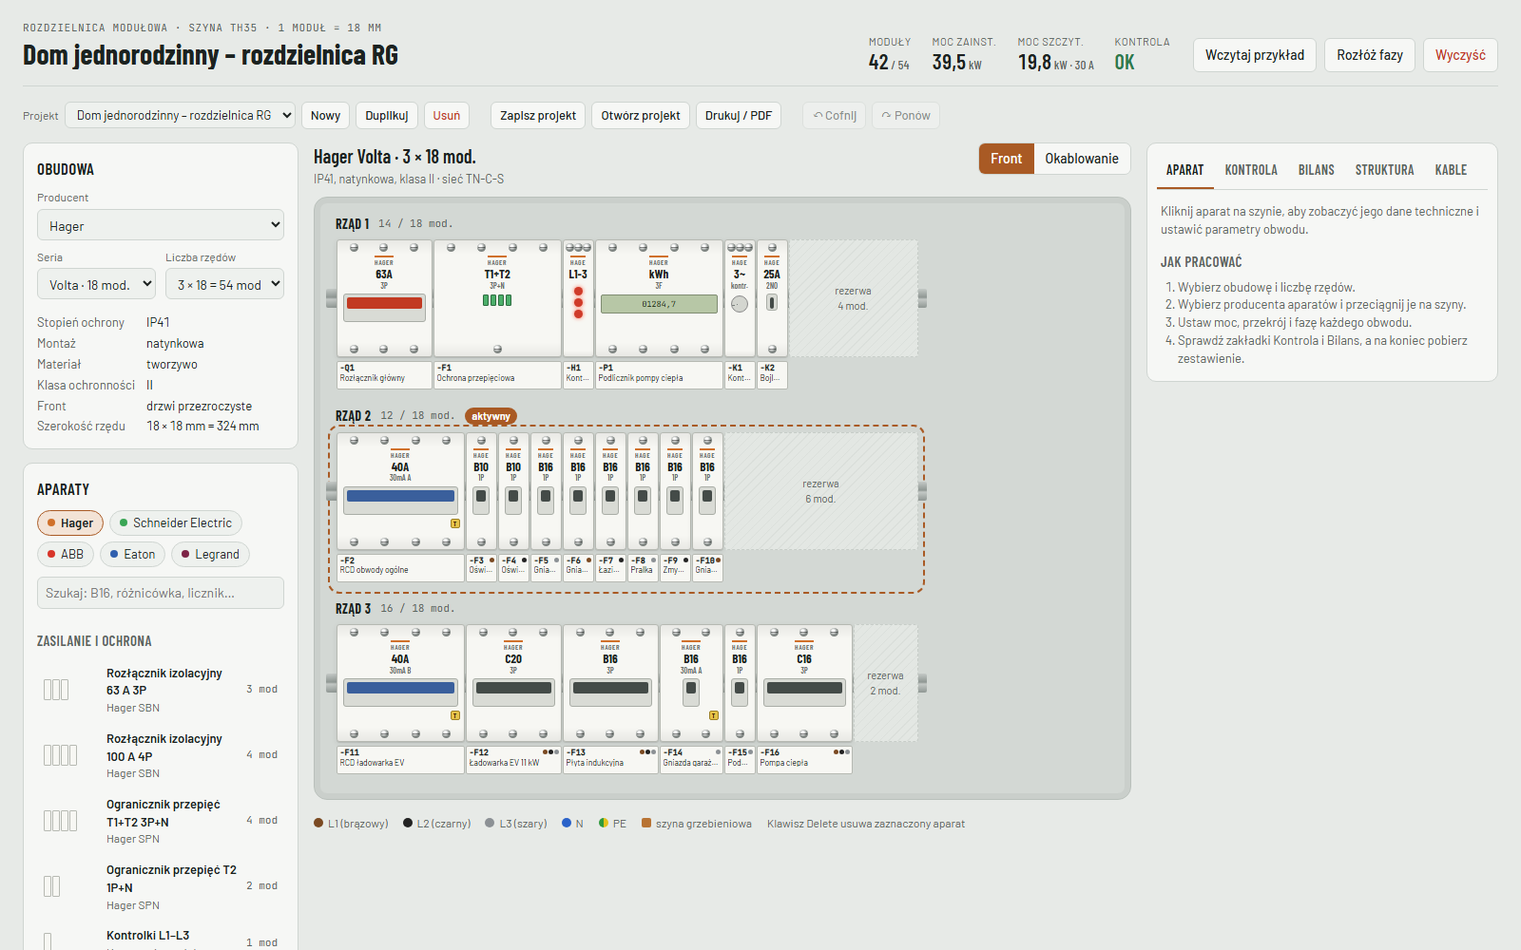
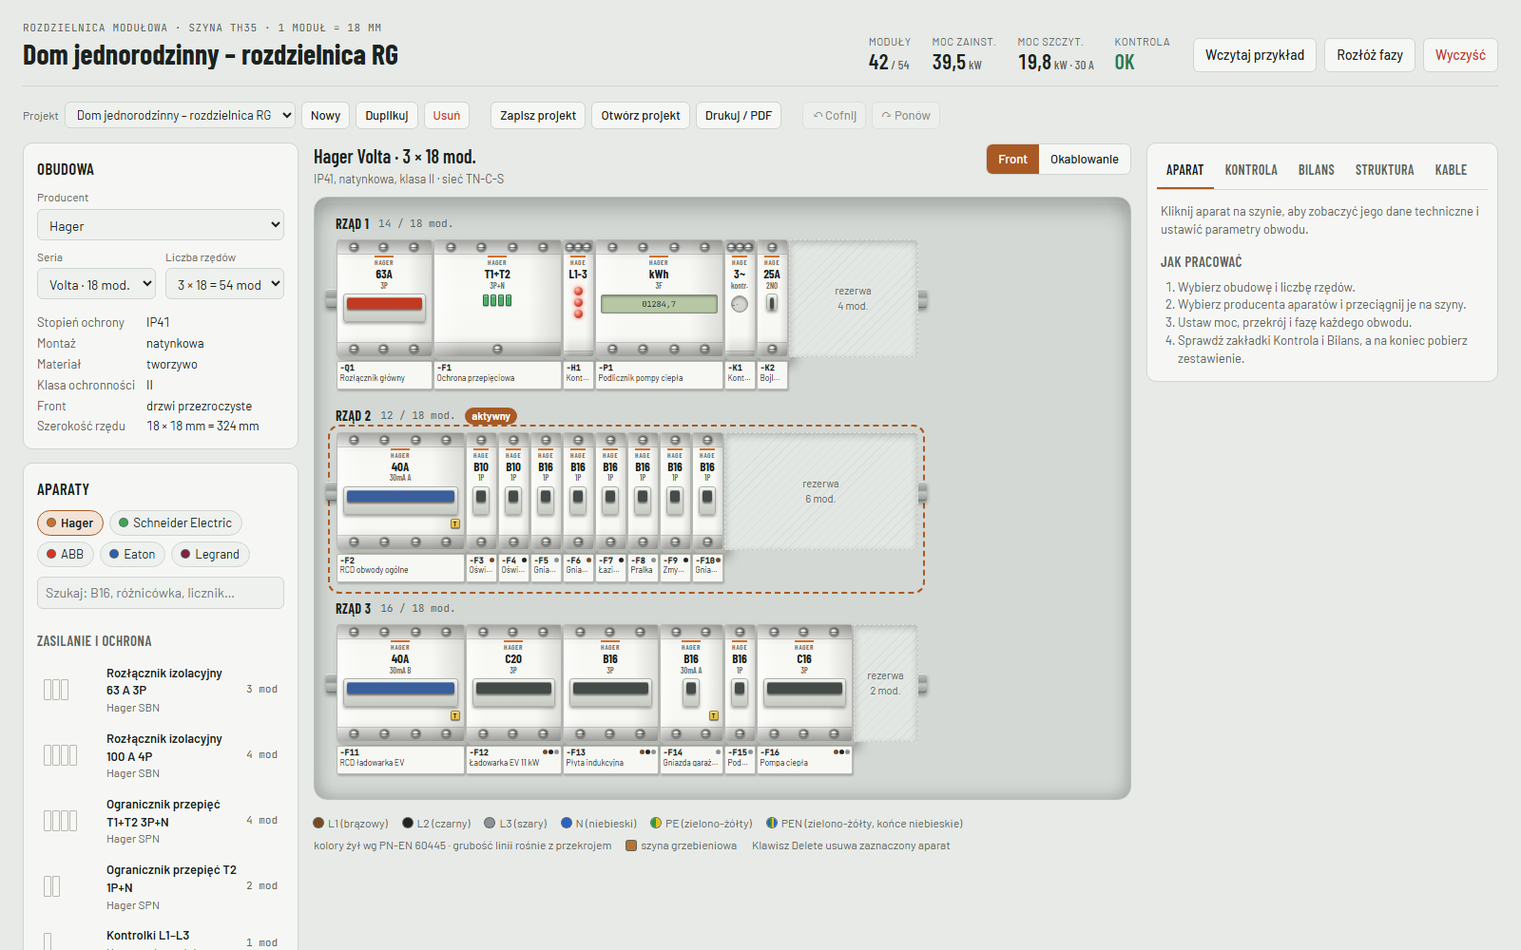
0.8.0: wygląd przestrzenny aparatów i przewodów, grubość linii wg przekroju, kontrola przekroju względem zacisków

diff --git a/js/wiring.js b/js/wiring.js
@@ -23,6 +23,18 @@ function cableType(d){const c=+d.c.cable,cs=fmt(c);return is3(d)?(c<=4?'YDYp 5×
 let wirePick=null,wireSel=null,wireMove=null;
 function wireReset(){wirePick=wireSel=wireMove=null;}
 const WIRE_MM=[1.5,2.5,4,6,10,16,25,35];
+/* Grubość linii na rysunku rośnie z przekrojem przewodu [mm² → px]. */
+const WIRE_W={1.5:1.6,2.5:2,4:2.4,6:2.8,10:3.2,16:3.7,25:4.2,35:4.6};
+const wireW=mm=>WIRE_W[mm]||(mm>35?5:2.2);
+/* Czy przekrój przewodu mieści się w zaciskach aparatów na jego końcach. Zwraca [komunikat, wskazówka, idAparatu] albo null. */
+function termFit(c,D){const E=[c.a,c.b];for(let i=0;i<2;i++){const e=E[i];if(e.k!=='dev')continue;const d=S.dev[e.id],r=termRange(d);
+  if(c.mm>r[1]||c.mm<r[0])return ['Przewód <b>'+esc(epName(c.a,D))+' → '+esc(epName(c.b,D))+'</b> '+fmt(c.mm)+' mm² nie pasuje do zacisku <b>'+D[d.id]+' '+esc(d.name)+'</b> (zakres '+fmt(r[0])+'–'+fmt(r[1])+' mm²).',
+    c.mm>r[1]?'Za gruby przewód nie wejdzie w zacisk. Zastosuj blok rozdzielczy albo aparat o większych zaciskach; nie wolno odcinać drutów żyły.':'Za cienki przewód nie zostanie pewnie dociśnięty. Zwiększ przekrój albo zastosuj tulejkę zgodnie z kartą aparatu.',d.id];}return null;}
+/* Przekroje a zaciski dla połączeń wyliczonych przez program i dla kabli obwodowych (przewody ręczne sprawdza wireCheck). */
+function termIssues(){const out=[],D=designations();
+  buildConns().C.forEach(c=>{if(c.user||c.kind==='jumper')return;const t=termFit(c,D);if(t)out.push({sev:'crit',msg:t[0],ref:t[1],id:t[2]});});
+  S.rows.flat().map(id=>S.dev[id]).filter(isCirc).forEach(d=>{const r=termRange(d),mm=+d.c.cable;if(mm>r[1]||mm<r[0])out.push({sev:'crit',msg:'<b>'+D[d.id]+' '+esc(d.name)+'</b>: kabel obwodowy '+fmt(mm)+' mm² nie pasuje do zacisków aparatu (zakres '+fmt(r[0])+'–'+fmt(r[1])+' mm²).',ref:'Dobierz aparat o odpowiednich zaciskach albo zmień przekrój kabla.',id:d.id});});
+  return out;}
 const epPh=e=>e.k==='bar'?(e.bar==='PE'?'PE':'N'):e.ph;
 const epKey=e=>e.k==='dev'?e.id+'/'+e.side+'/'+e.ph:e.k==='bar'?'bar/'+e.bar:e.k==='comb'?'comb/'+e.rcd+'/'+e.ph:'wlz/'+e.ph;
 /* Zapisany koniec → koniec z nazwą żyły; null, gdy zacisk już nie istnieje (usunięty aparat, mniej biegunów). */
@@ -73,6 +85,7 @@ function wireCheck(){const out=[],bad={},why={};if(S.wmode!=='manual')return {ou
         else if(fn==='N')add('warn',nm+' jest przewodem neutralnym, a ma izolację '+COL[c.col]+'.','Przewód N powinien być niebieski. '+ref,id,c);
         else add('info',nm+' (faza '+fn+') ma izolację '+COL[c.col]+'.','Dopuszczalne, ale zalecana kolejność to L1 brązowy, L2 czarny, L3 szary; oznacz końce przewodu. '+ref,id,c);}}
     if(c.mm<c.mmAuto)add('warn',nm+' ma przekrój '+fmt(c.mm)+' mm², mniejszy niż dobrany '+fmt(c.mmAuto)+' mm².','Przekrój przewodu w rozdzielnicy musi odpowiadać zabezpieczeniu przed nim (In ≤ Iz, PN-HD 60364-4-43).',id,c);
+    const tf=termFit(c,D);if(tf)add('crit',tf[0],tf[1],tf[2],c);
     if(c.kind==='mostek'){
       if(!tncs)add('crit',nm+' łączy N z PE w układzie '+esc(S.set.siec)+'.','W tym układzie przewody N i PE muszą być rozdzielone w całej instalacji (PN-HD 60364-5-54).',id,c);
       else if(!(c.b.k==='bar'&&c.b.bar==='N')&&!(c.b.k==='dev'&&S.dev[c.b.id]===sw&&c.b.side==='top'))add('crit',nm+' łączy N z PE poza punktem podziału PEN.','Za punktem podziału (listwa PE → główna listwa N) przewodów N i PE nie wolno ponownie łączyć (PN-HD 60364-5-54 p. 543.4).',id,c);
@@ -216,19 +229,21 @@ function drawWires(){const cab=$('#board');
   const touches=c=>!S.sel||[c.a,c.b].some(e=>e.id===S.sel||e.rcd===S.sel||e.bar==='N:'+S.sel);
   const shown=c=>wf[(c.kind==='mostek')?'PE':c.ph];
   /* c (opcjonalnie): przewód dodany ręcznie – dostaje data-w do zaznaczania oraz obwódkę błędu / zaznaczenia. */
-  const paint=(d,ph,mm,title,pe,dim,c)=>{const w=mm>=10?3:2.2,u=c&&c.user,bad=u?wc.bad[c.id]:'',sel=u&&wireSel===c.id,at=u?` data-w="${c.id}"`:'';
+  const paint=(d,ph,mm,title,pe,dim,c)=>{const w=wireW(mm),u=c&&c.user,bad=u?wc.bad[c.id]:'',sel=u&&wireSel===c.id,at=u?` data-w="${c.id}"`:'';
     const mark=bad==='crit'||bad==='warn';
     if(bad){const t=document.createElement('div');t.innerHTML=wc.why[c.id];title+=' · '+(bad==='crit'?'ZŁE PODŁĄCZENIE: ':'UWAGA: ')+t.textContent;}
     /* kolor izolacji: ustawiony ręcznie albo wg żyły; PEN (TN-C-S) = zielono-żółty z niebieskimi końcami (PN-EN 60445) */
     const col=c&&c.col?c.col:(pe?'PE':ph),pen=!!c&&!c.col&&S.set.siec==='TN-C-S'&&(c.kind==='mostek'||(c.a.k==='wlz'&&c.a.ph==='PE'));
-    let s=`<g opacity="${dim&&!sel&&!mark?.16:1}">`+(mark||sel?`<path class="halo" d="${d}" fill="none" stroke="var(--${sel?'accent':bad==='crit'?'crit':'warn'})" stroke-width="${w+7}" stroke-linejoin="round" opacity=".6"/>`:'')+`<path d="${d}" fill="none" stroke="var(--wire-edge)" stroke-width="${w+3}" stroke-linejoin="round"/>`;
+    let s=`<g opacity="${dim&&!sel&&!mark?.16:1}">`+(mark||sel?`<path class="halo" d="${d}" fill="none" stroke="var(--${sel?'accent':bad==='crit'?'crit':'warn'})" stroke-width="${w+7}" stroke-linejoin="round" opacity=".6"/>`:'')+`<path class="sh" d="${d}" transform="translate(1.6 2.4)" fill="none" stroke="var(--wire-sh)" stroke-opacity=".24" stroke-width="${w+1.2}" stroke-linejoin="round"/><path d="${d}" fill="none" stroke="var(--wire-edge)" stroke-width="${w+2}" stroke-linejoin="round"/>`;
+    /* połysk: wąska jasna linia przesunięta ku górze-lewej daje wrażenie okrągłego przewodu */
+    const hl=`<path class="hl" d="${d}" transform="translate(${(-w*.2).toFixed(2)} ${(-w*.2).toFixed(2)})" fill="none" stroke="var(--wire-hl)" stroke-opacity=".4" stroke-width="${Math.max(.6,w*.28).toFixed(2)}" stroke-linejoin="round" pointer-events="none"/>`;
     if(col==='PE')s+=`<path d="${d}" fill="none" stroke="var(--pe2)" stroke-width="${w}" stroke-linejoin="round"/><path class="w"${at} d="${d}" fill="none" stroke="var(--pe)" stroke-width="${w}" stroke-dasharray="5 5" stroke-linejoin="round"><title>${esc(title)}</title></path>`
       +(pen?`<path class="pen" d="${d}" pathLength="1000" fill="none" stroke="var(--n)" stroke-width="${w}" stroke-dasharray="90 820 90" pointer-events="none"/>`:'');
-    else s+=`<path class="w"${at} d="${d}" fill="none" stroke="var(--${col.toLowerCase()})" stroke-width="${w}" stroke-linejoin="round"><title>${esc(title)}</title></path>`;return s+'</g>';};
+    else s+=`<path class="w"${at} d="${d}" fill="none" stroke="var(--${col.toLowerCase()})" stroke-width="${w}" stroke-linejoin="round"><title>${esc(title)}</title></path>`;return s+hl+'</g>';};
   let out='';
   // listwy
-  out+=`<rect x="${x0}" y="${peY-4}" width="${x1-x0}" height="8" rx="2" fill="var(--pe)"/><rect x="${x0}" y="${peY-1}" width="${x1-x0}" height="2" fill="var(--pe2)"/><text x="${x0}" y="${peY+20}" font-size="10.5" font-weight="600" fill="var(--ink)">Listwa PE${S.set.siec==='TN-C-S'?' · punkt podziału PEN':''}</text>`;
-  segs.forEach(s=>{out+=`<rect x="${s.x0}" y="${nY-4}" width="${s.x1-s.x0}" height="8" rx="2" fill="var(--n)"/><text x="${s.x1}" y="${nY+18}" text-anchor="end" font-size="10.5" font-weight="600" fill="var(--ink)">Listwa ${esc(s.lab)}</text>`;
+  out+=`<rect x="${x0+2}" y="${peY-1}" width="${x1-x0}" height="8" rx="2" fill="var(--wire-sh)" opacity=".22"/><rect x="${x0}" y="${peY-4}" width="${x1-x0}" height="8" rx="2" fill="var(--pe)"/><rect x="${x0}" y="${peY-1}" width="${x1-x0}" height="2" fill="var(--pe2)"/><text x="${x0}" y="${peY+20}" font-size="10.5" font-weight="600" fill="var(--ink)">Listwa PE${S.set.siec==='TN-C-S'?' · punkt podziału PEN':''}</text>`;
+  segs.forEach(s=>{out+=`<rect x="${s.x0+2}" y="${nY-1}" width="${s.x1-s.x0}" height="8" rx="2" fill="var(--wire-sh)" opacity=".22"/><rect x="${s.x0}" y="${nY-4}" width="${s.x1-s.x0}" height="8" rx="2" fill="var(--n)"/><rect x="${s.x0+1}" y="${nY-3.4}" width="${s.x1-s.x0-2}" height="1.6" rx=".8" fill="var(--wire-hl)" opacity=".4"/><text x="${s.x1}" y="${nY+18}" text-anchor="end" font-size="10.5" font-weight="600" fill="var(--ink)">Listwa ${esc(s.lab)}</text>`;
     for(let x=s.x0+6;x<=s.x1-6;x+=12)out+=`<circle cx="${x}" cy="${nY}" r="1.6" fill="var(--cabinet)"/>`;});
   for(let x=x0+6;x<=x1-6;x+=12)out+=`<circle cx="${x}" cy="${peY}" r="1.6" fill="var(--cabinet)"/>`;
   out+=`<text x="${x0+44}" y="14" font-size="11" font-weight="600" fill="var(--ink)">WLZ: ${esc(wlzType())} · zab. przedlicznikowe ${S.set.przedl} A · ${esc(S.set.siec)}</text>`;

diff --git a/css/styles.css b/css/styles.css
@@ -10,7 +10,7 @@
   --f-display:"Barlow Condensed","Arial Narrow",Arial,sans-serif;
   --f-body:"Barlow","Segoe UI",Roboto,Arial,sans-serif;
   --f-mono:"JetBrains Mono",ui-monospace,Consolas,monospace;
-  --wire-edge:var(--cabinet);
+  --wire-edge:var(--cabinet); --wire-sh:#000000; --wire-hl:#ffffff;
   --M:34px;
 }
 @media (prefers-color-scheme: dark){:root:not([data-theme="light"]){
@@ -247,3 +247,23 @@ footer{margin-top:22px;font-size:12px;color:var(--muted);max-width:90ch}
   body{margin:0;background:none}
   #print{display:block;-webkit-print-color-adjust:exact;print-color-adjust:exact}
 }
+
+/* Wygląd przestrzenny (bez transformacji 3D, żeby pomiar zacisków dla przewodów pozostał dokładny):
+   bryła aparatu z boczną ścianką i cieniem, wypukły front, wgłębione zaciski, głębia obudowy. */
+.cabinet{box-shadow:inset 0 0 0 6px color-mix(in srgb,var(--cabinet-edge) 35%,transparent),inset 0 18px 30px -16px rgba(0,0,0,.4),inset 0 -12px 22px -14px rgba(0,0,0,.22),inset 14px 0 22px -16px rgba(0,0,0,.22),inset -14px 0 22px -16px rgba(0,0,0,.22)}
+.rail::before{box-shadow:0 3px 4px rgba(0,0,0,.35),inset 0 1px 0 rgba(255,255,255,.55),inset 0 -1px 0 rgba(0,0,0,.25)}
+.dev{background:linear-gradient(90deg,rgba(255,255,255,.6),rgba(255,255,255,0) 20%,rgba(0,0,0,0) 74%,rgba(0,0,0,.11)),linear-gradient(180deg,rgba(0,0,0,.12),rgba(0,0,0,0) 18%,rgba(255,255,255,.25) 50%,rgba(0,0,0,0) 82%,rgba(0,0,0,.16)),var(--dev);
+  box-shadow:1px 1px 0 var(--dev-edge),2px 2px 0 var(--dev-edge),3px 3px 0 var(--dev-edge),7px 9px 12px rgba(0,0,0,.3)}
+.slot.sel .dev{box-shadow:0 0 0 2px var(--accent),3px 3px 0 var(--dev-edge),8px 11px 16px rgba(0,0,0,.38)}
+.slot.over .dev{box-shadow:0 0 0 2px var(--crit),3px 3px 0 var(--dev-edge),7px 9px 12px rgba(0,0,0,.3)}
+.trm{background:linear-gradient(180deg,rgba(0,0,0,.24),rgba(0,0,0,.05));box-shadow:inset 0 -1px 0 rgba(0,0,0,.14)}
+.trm.b{background:linear-gradient(0deg,rgba(0,0,0,.24),rgba(0,0,0,.05));box-shadow:inset 0 1px 0 rgba(0,0,0,.14)}
+.scr{box-shadow:inset 0 1px 2px rgba(0,0,0,.65),0 0 0 1.5px rgba(0,0,0,.2)}
+.lever{background:linear-gradient(180deg,#eef0ea,#c6c9c2);box-shadow:inset 0 1px 0 rgba(255,255,255,.8),0 2px 3px rgba(0,0,0,.32)}
+.lever::after{box-shadow:0 2px 2px rgba(0,0,0,.5),inset 0 1px 0 rgba(255,255,255,.28)}
+.lcd,.sock,.dial{box-shadow:inset 0 1px 3px rgba(0,0,0,.4)}
+.tbtn{box-shadow:0 1px 1px rgba(0,0,0,.45),inset 0 1px 0 rgba(255,255,255,.5)}
+.leds i{background:radial-gradient(circle at 35% 30%,#ffc2b6,#cf3b2a 62%)}
+.spdwin i{box-shadow:inset 0 1px 1px rgba(255,255,255,.5),0 1px 1px rgba(0,0,0,.3)}
+.tag{box-shadow:1px 2px 2px rgba(0,0,0,.2)}
+.blank{box-shadow:inset 0 3px 7px rgba(0,0,0,.2)}

diff --git a/tests/okablowanie.spec.js b/tests/okablowanie.spec.js
@@ -283,3 +283,37 @@ test('kolory żył są normatywne także w ciemnym motywie; PEN ma niebieskie ko
   await page.evaluate(() => { S.set.siec = 'TN-S'; render(); });
   await expect(page.locator('svg.wires path.pen')).toHaveCount(0);
 });
+
+test('przekroje: grubość linii rośnie z przekrojem, przewód ma połysk i cień, zaciski mają zakres', async ({ page }) => {
+  // Tryb automatyczny: przykład nie ma zastrzeżeń do przekrojów, a przewody 10 mm² są grubsze niż 1,5 mm².
+  expect(await page.evaluate(() => termIssues())).toEqual([]);
+  const w = await page.evaluate(() => [1.5, 2.5, 4, 6, 10, 16, 25, 35].map(wireW));
+  for (let i = 1; i < w.length; i++) expect(w[i]).toBeGreaterThan(w[i - 1]);
+  const n = await page.locator('svg.wires path.w').count();
+  expect(await page.locator('svg.wires path.hl').count()).toBeGreaterThanOrEqual(n - 2); // PE ma dwie warstwy .w
+  expect(await page.locator('svg.wires path.sh').count()).toBeGreaterThan(30);
+
+  // Dane techniczne aparatu pokazują zakres zacisków.
+  await page.locator('#board .slot').first().dispatchEvent('click');
+  await expect(page.locator('#panel')).toContainText('przewód 1,5–25 mm² (orientacyjnie)');
+
+  // Tryb ręczny: 35 mm² nie wejdzie w zacisk różnicówki 40 A, 4 mm² nie wejdzie w przekaźnik kontroli faz.
+  await manualAdopted(page);
+  const d = await ids(page);
+  const find = (a, b) => page.evaluate(([x, y]) => buildConns().C.find(c => c.user && c.a.id === x && c.b.id === y).id, [a, b]);
+  const big = await find(d['Rozłącznik główny'], d['RCD obwody ogólne']);
+  await page.locator(`svg.wires path[data-w="${big}"]`).dispatchEvent('click');
+  const thin = +(await page.locator(`svg.wires path[data-w="${big}"]`).getAttribute('stroke-width'));
+  await page.selectOption('[data-wprop="mm"]', '35');
+  await expect(page.locator('.toast')).toContainText('35 mm² nie pasuje do zacisku -Q1 Rozłącznik główny (zakres 1,5–25 mm²)');
+  expect(+(await page.locator(`svg.wires path[data-w="${big}"]`).getAttribute('stroke-width'))).toBeGreaterThan(thin);
+  expect((await issues(page)).filter(x => x.startsWith('crit')).length).toBe(1);
+  await page.selectOption('[data-wprop="mm"]', '');
+
+  const rel = await find(d['Rozłącznik główny'], d['Kontrola faz PC']);
+  await page.locator(`svg.wires path[data-w="${rel}"]`).dispatchEvent('click');
+  await page.selectOption('[data-wprop="mm"]', '4');
+  await expect(page.locator('.toast')).toContainText('4 mm² nie pasuje do zacisku -K1 Kontrola faz PC (zakres 0,5–2,5 mm²)');
+  await page.selectOption('[data-wprop="mm"]', '');
+  expect(await issues(page)).toEqual([]);
+});

diff --git a/js/model.js b/js/model.js
@@ -9,6 +9,13 @@ function width(d){const p=d.p;switch(d.t){
   case 'spd':return p.sys==='1P+N'?2:4;case 'meter':return p.ph==1?1:4;
   case 'contactor':return p.In<=25?(p.poles==2?1:2):(p.poles==2?2:3);
   case 'socket':return 2.5;case 'psu':return p.W<=30?2:4;default:return 1;}}
+/* Zakres przekrojów przewodu w zaciskach aparatu [mm²]. Wartości orientacyjne, typowe dla aparatury modułowej; sprawdź w karcie katalogowej. */
+function termRange(d){const In=(d.p&&d.p.In)||0;switch(d.t){
+  case 'mcb':return In<=63?[1,25]:[2.5,50];case 'rcbo':return [1,25];
+  case 'rcd':case 'sw':return In<=63?[1.5,25]:[2.5,50];
+  case 'spd':return d.p.cls==='T1+T2'?[2.5,35]:[1.5,25];
+  case 'lamp':return [0.5,6];case 'relay':case 'timer':case 'psu':return [0.5,2.5];
+  case 'meter':return [1.5,25];case 'contactor':return In<=25?[1,6]:[2.5,25];case 'socket':return [1,4];}return [0.5,25];}
 const series=d=>(SER[d.m]&&SER[d.m][d.t])||'seria modułowa';
 const clen=d=>(d.c&&d.c.len!=null)?d.c.len:15;
 const isCirc=d=>d.t==='mcb'||d.t==='rcbo';
@@ -47,6 +54,7 @@ function specs(d){const p=d.p,r=[];
   case 'timer':r.push(['Zasilanie','12–240 V AC/DC'],['Funkcje','opóźnione zał./wył., cykl, impuls'],['Zakres','0,1 s – 100 h']);break;
   case 'psu':r.push(['Wejście','100–240 V AC'],['Wyjście','24 V DC, '+fmt(p.W/24,2)+' A'],['Moc',p.W+' W']);break;
   case 'relay':r.push(['Kontrola','zanik, kolejność, asymetria faz'],['Napięcie','3 × 400 V AC'],['Wyjście','1 × CO, 5 A']);break;}
+  const tr=termRange(d);r.push(['Zaciski','przewód '+fmt(tr[0])+'–'+fmt(tr[1])+' mm² (orientacyjnie)']);
   r.push(['Szerokość',fmt(width(d))+' mod. ('+fmt(width(d)*18)+' mm)']);return r;}
 
 /* ---------- state ---------- */
@@ -197,5 +205,6 @@ function checks(){const out=[],D=designations(),e=enc(),T=totals(),devs=Object.v
   if(mx>5&&(mx-mn)/mx>0.25)add('warn',`Asymetria obciążenia faz ${fmt((mx-mn)/mx*100,0)}% (L1 ${fmt(L.L1)} A, L2 ${fmt(L.L2)} A, L3 ${fmt(L.L3)} A).`,'Użyj „Rozłóż fazy” albo zmień fazy obwodów ręcznie.');
   if(T.cap&&(T.cap-T.used)/T.cap<0.2)add('info',`Rezerwa miejsca ${fmt(Math.max(0,T.cap-T.used))} mod. to mniej niż 20%.`,'Zostaw miejsce na rozbudowę instalacji.');
   wireCheck().out.forEach(x=>out.push(x));
+  termIssues().forEach(x=>out.push(x));
   return out;}
 

diff --git a/index.html b/index.html
@@ -82,7 +82,7 @@
         <span><i style="background:var(--n)"></i>N (niebieski)</span>
         <span><i style="background:linear-gradient(90deg,var(--pe) 50%,var(--pe2) 50%)"></i>PE (zielono-żółty)</span>
         <span><i style="background:linear-gradient(90deg,var(--n) 30%,var(--pe) 30% 50%,var(--pe2) 50% 70%,var(--n) 70%)"></i>PEN (zielono-żółty, końce niebieskie)</span>
-        <span>kolory żył wg PN-EN 60445</span>
+        <span>kolory żył wg PN-EN 60445 · grubość linii rośnie z przekrojem</span>
         <span><i style="background:var(--cu);border-radius:2px"></i>szyna grzebieniowa</span>
         <span id="wireHint" hidden>Kliknij aparat, aby wyróżnić jego przewody. Najedź na przewód, aby zobaczyć skąd i dokąd prowadzi.</span>
         <span>Klawisz Delete usuwa zaznaczony aparat</span>

diff --git a/scripts/podglad-druku.js b/scripts/podglad-druku.js
@@ -12,6 +12,11 @@ const fs = require('fs'), path = require('path');
     const p = await b.newPage({ viewport: { width: 1600, height: 1000 } });
     await p.goto('http://localhost:4199/');
     await p.screenshot({ path: path.join(out, 'ekran.png') });
+    // Zrzuty samej obudowy: front i okablowanie (do kontroli wyglądu i do docs/).
+    await p.locator('#board').screenshot({ path: path.join(out, 'front.png') });
+    await p.click('[data-view="wires"]');
+    await p.locator('#board').screenshot({ path: path.join(out, 'okablowanie.png') });
+    await p.click('[data-view="front"]');
     await p.evaluate(() => { window.print = () => {}; });
     await p.click('#bPrint');
     await p.emulateMedia({ media: 'print' });

diff --git a/HANDOFF.md b/HANDOFF.md
@@ -1,6 +1,6 @@
 # Przekazanie projektu: Projektant Rozdzielnic
 
-Stan na 10.10.2026, wersja 0.7.0. Projekt powstał w czacie z Claude jako pojedyncza strona (artefakt claude.ai), został podzielony na pliki i jest rozwijany w Claude Code jako zwykła strona w przeglądarce. Wersja 0.5.0 zamyka zadania P0 (1–5 w całości, 6 przygotowane, czeka na decyzję o hostingu). Szczegóły każdej zmiany: `CHANGELOG.md`.
+Stan na 10.10.2026, wersja 0.8.0. Projekt powstał w czacie z Claude jako pojedyncza strona (artefakt claude.ai), został podzielony na pliki i jest rozwijany w Claude Code jako zwykła strona w przeglądarce. Wersja 0.5.0 zamyka zadania P0 (1–5 w całości, 6 przygotowane, czeka na decyzję o hostingu). Szczegóły każdej zmiany: `CHANGELOG.md`.
 
 ![Widok frontu](docs/front.png)
 
@@ -8,7 +8,7 @@ Stan na 10.10.2026, wersja 0.7.0. Projekt powstał w czacie z Claude jako pojedy
 
 Narzędzie dla elektryka lub projektanta do wstępnego zaprojektowania rozdzielnicy mieszkaniowej / małej komercyjnej: dobór obudowy, rozmieszczenie aparatów różnych producentów, kontrola zgodności z podstawowymi wymaganiami PN-HD 60364, okablowanie wnętrza i zestawienie materiałów do zamówienia.
 
-## Co działa (zweryfikowane testami, `npm test`, 99/99: 33 testów × desktop, telefon, safari)
+## Co działa (zweryfikowane testami, `npm test`, 102/102: 34 testów × desktop, telefon, safari)
 
 **Obudowa i aparaty**
 - 5 producentów: Hager, Schneider Electric, ABB, Eaton, Legrand; 9 serii obudów (12–24 mod./rząd, 1–6 rzędów, IP40–IP65).
@@ -77,7 +77,7 @@ Narzędzie dla elektryka lub projektanta do wstępnego zaprojektowania rozdzieln
 10. **Przy wielu obwodach obudowa w widoku okablowania robi się wysoka**; brak powiększania i przesuwania.
 11. W `css/styles.css` reguły `.cabinet.wiring { padding … }` i `.cabinet.wiring .rowwrap { margin-top … }` są nadpisywane przez style inline z `drawWires()`; do uporządkowania.
 12. Faza RCD 2P jest wyznaczana z pierwszego przypisanego obwodu 1F (`rcdPh`), a nie ustawiana jawnie.
-13. Zrzut `docs/okablowanie.png` pochodzi z wersji 0.4.0 (sam widok okablowania się nie zmienił).
+13. Zakresy przekrojów zacisków aparatów (`termRange()`) są orientacyjne, wpisane bez kart katalogowych producentów.
 
 Naprawione w 0.5.0: pasek potwierdzenia „Wyczyść” widoczny od startu i podpowiedź o przewodach widoczna w widoku frontu (atrybut `hidden` nadpisywany przez `display`).
 

diff --git a/CHANGELOG.md b/CHANGELOG.md
@@ -2,6 +2,27 @@
 
 Każdy wpis odpowiada jednemu commitowi. Format: co zrobiono, dlaczego, jak sprawdzono.
 
+## 0.8.0 (11.10.2026) — wygląd przestrzenny, przekroje a zaciski aparatów
+
+Powód: użytkownik chce bardziej trójwymiarowych aparatów i przewodów oraz pilnowania przekrojów w aparaturze.
+
+- **Aparaty:** bryła z boczną ścianką i cieniem, wypukły front, wgłębione zaciski i śruby, dźwignie i okienka z głębią,
+  cień szyny i wnętrza obudowy. To cieniowanie CSS, a nie obracany model 3D: transformacje 3D zniekształciłyby pomiar
+  położenia zacisków, z którego rysowane są przewody.
+- **Przewody:** cień, obrys i połysk dają wrażenie okrągłej żyły; listwy N/PE też mają cień i połysk.
+- **Grubość linii odpowiada przekrojowi:** 1,5 mm² → 1,6 px … 35 mm² → 4,6 px (`WIRE_W` w `js/wiring.js`).
+- **Przekrój a zaciski:** każdy typ aparatu ma zakres przekrojów zacisku (`termRange()` w `js/model.js`, widoczny
+  w „Danych technicznych” jako „Zaciski”). Kontrola zgłasza błąd, gdy przewód jest za gruby albo za cienki dla zacisku:
+  dla przewodów ręcznych (`wireCheck()`, z czerwonym alertem i obwódką), dla przewodów wyliczonych i kabli obwodowych
+  (`termIssues()`, w obu trybach).
+- **Zakresy zacisków są orientacyjne** (typowe dla aparatury modułowej, wpisane bez kart katalogowych):
+  MCB / RCBO 1–25 mm², RCD i rozłącznik do 63 A 1,5–25 mm² (powyżej 2,5–50), SPD T1+T2 2,5–35, SPD T2 1,5–25,
+  kontrolki 0,5–6, przekaźnik 0,5–2,5 mm². Przed wykonaniem trzeba je sprawdzić w kartach producenta.
+- `scripts/podglad-druku.js` zapisuje też zrzuty samej obudowy (`front.png`, `okablowanie.png`); odświeżone `docs/*.png`.
+- Test: rosnąca grubość linii, warstwy cienia i połysku, zakres zacisków w panelu, alert dla 35 mm² w zacisku 25 mm²
+  i 4 mm² w zacisku 2,5 mm², brak uwag dla przykładu.
+- Sprawdzenie: `npm test` → 102/102; wzrokowo na zrzucie okablowania.
+
 ## 0.7.0 (10.10.2026) — kolory żył wg normy w każdym motywie, edycja przewodów
 
 Powód: użytkownik wymaga okablowania w kolorach polskich norm i możliwości modyfikowania przewodów.

diff --git a/docs/DOMAIN.md b/docs/DOMAIN.md
@@ -67,6 +67,21 @@ Działa tylko w trybie „Ręczne”. Każdy zacisk ma żyłę (`L1 L2 L3 N PE`)
 | info | Przewód fazowy w barwie innej fazy (zalecane L1 brązowy, L2 czarny, L3 szary) | PN-HD 308 S2 |
 | uwaga | Przekrój ustawiony ręcznie mniejszy niż dobrany | PN-HD 60364-4-43 |
 
+### Przekrój przewodu a zaciski aparatu (`termRange()`, `termFit()`, `termIssues()`)
+
+Błąd, gdy przekrój przewodu wpiętego w aparat (albo kabla obwodowego) jest poza zakresem zacisku. Działa w obu trybach okablowania. Zakresy są **orientacyjne** i wymagają sprawdzenia w karcie katalogowej:
+
+| Aparat | Zakres [mm²] |
+|---|---|
+| MCB, RCBO | 1–25 (MCB powyżej 63 A: 2,5–50) |
+| RCD, rozłącznik | 1,5–25 (powyżej 63 A: 2,5–50) |
+| SPD T1+T2 / T2 | 2,5–35 / 1,5–25 |
+| Kontrolki faz | 0,5–6 |
+| Przekaźnik kontroli faz, czasowy, zasilacz | 0,5–2,5 |
+| Licznik / stycznik do 25 A / stycznik większy / gniazdo | 1,5–25 / 1–6 / 2,5–25 / 1–4 |
+
+Na rysunku grubość linii rośnie z przekrojem (`WIRE_W`).
+
 PEN w TN-C-S (żyła ochronno-neutralna WLZ, mostek PEN) jest rysowany jako zielono-żółty z niebieskimi końcami. Kolory żył są takie same w jasnym i ciemnym motywie.
 
 Ciągłość liczona jest po grafie: przewody + tory wewnątrz rozłącznika, RCD, MCB, RCBO (wejście ↔ wyjście tej samej żyły) + szyny grzebieniowe.

diff --git a/CLAUDE.md b/CLAUDE.md
@@ -12,7 +12,7 @@ Szczegóły przekazania, znane problemy i plan prac: `HANDOFF.md`. Dziennik zmia
 npm start            # serwer statyczny bez zależności: http://localhost:4173
 npm install          # tylko dla testów (@playwright/test)
 npx playwright install chromium webkit   # raz, jeśli nie ma przeglądarek
-npm test             # 33 testów × 3 projekty: desktop 1600 px i telefon 390 px (Chromium), safari (WebKit)
+npm test             # 34 testów × 3 projekty: desktop 1600 px i telefon 390 px (Chromium), safari (WebKit)
 node scripts/podglad-druku.js            # PDF i zrzuty stron wydruku w test-results/druk/
 ```
 
